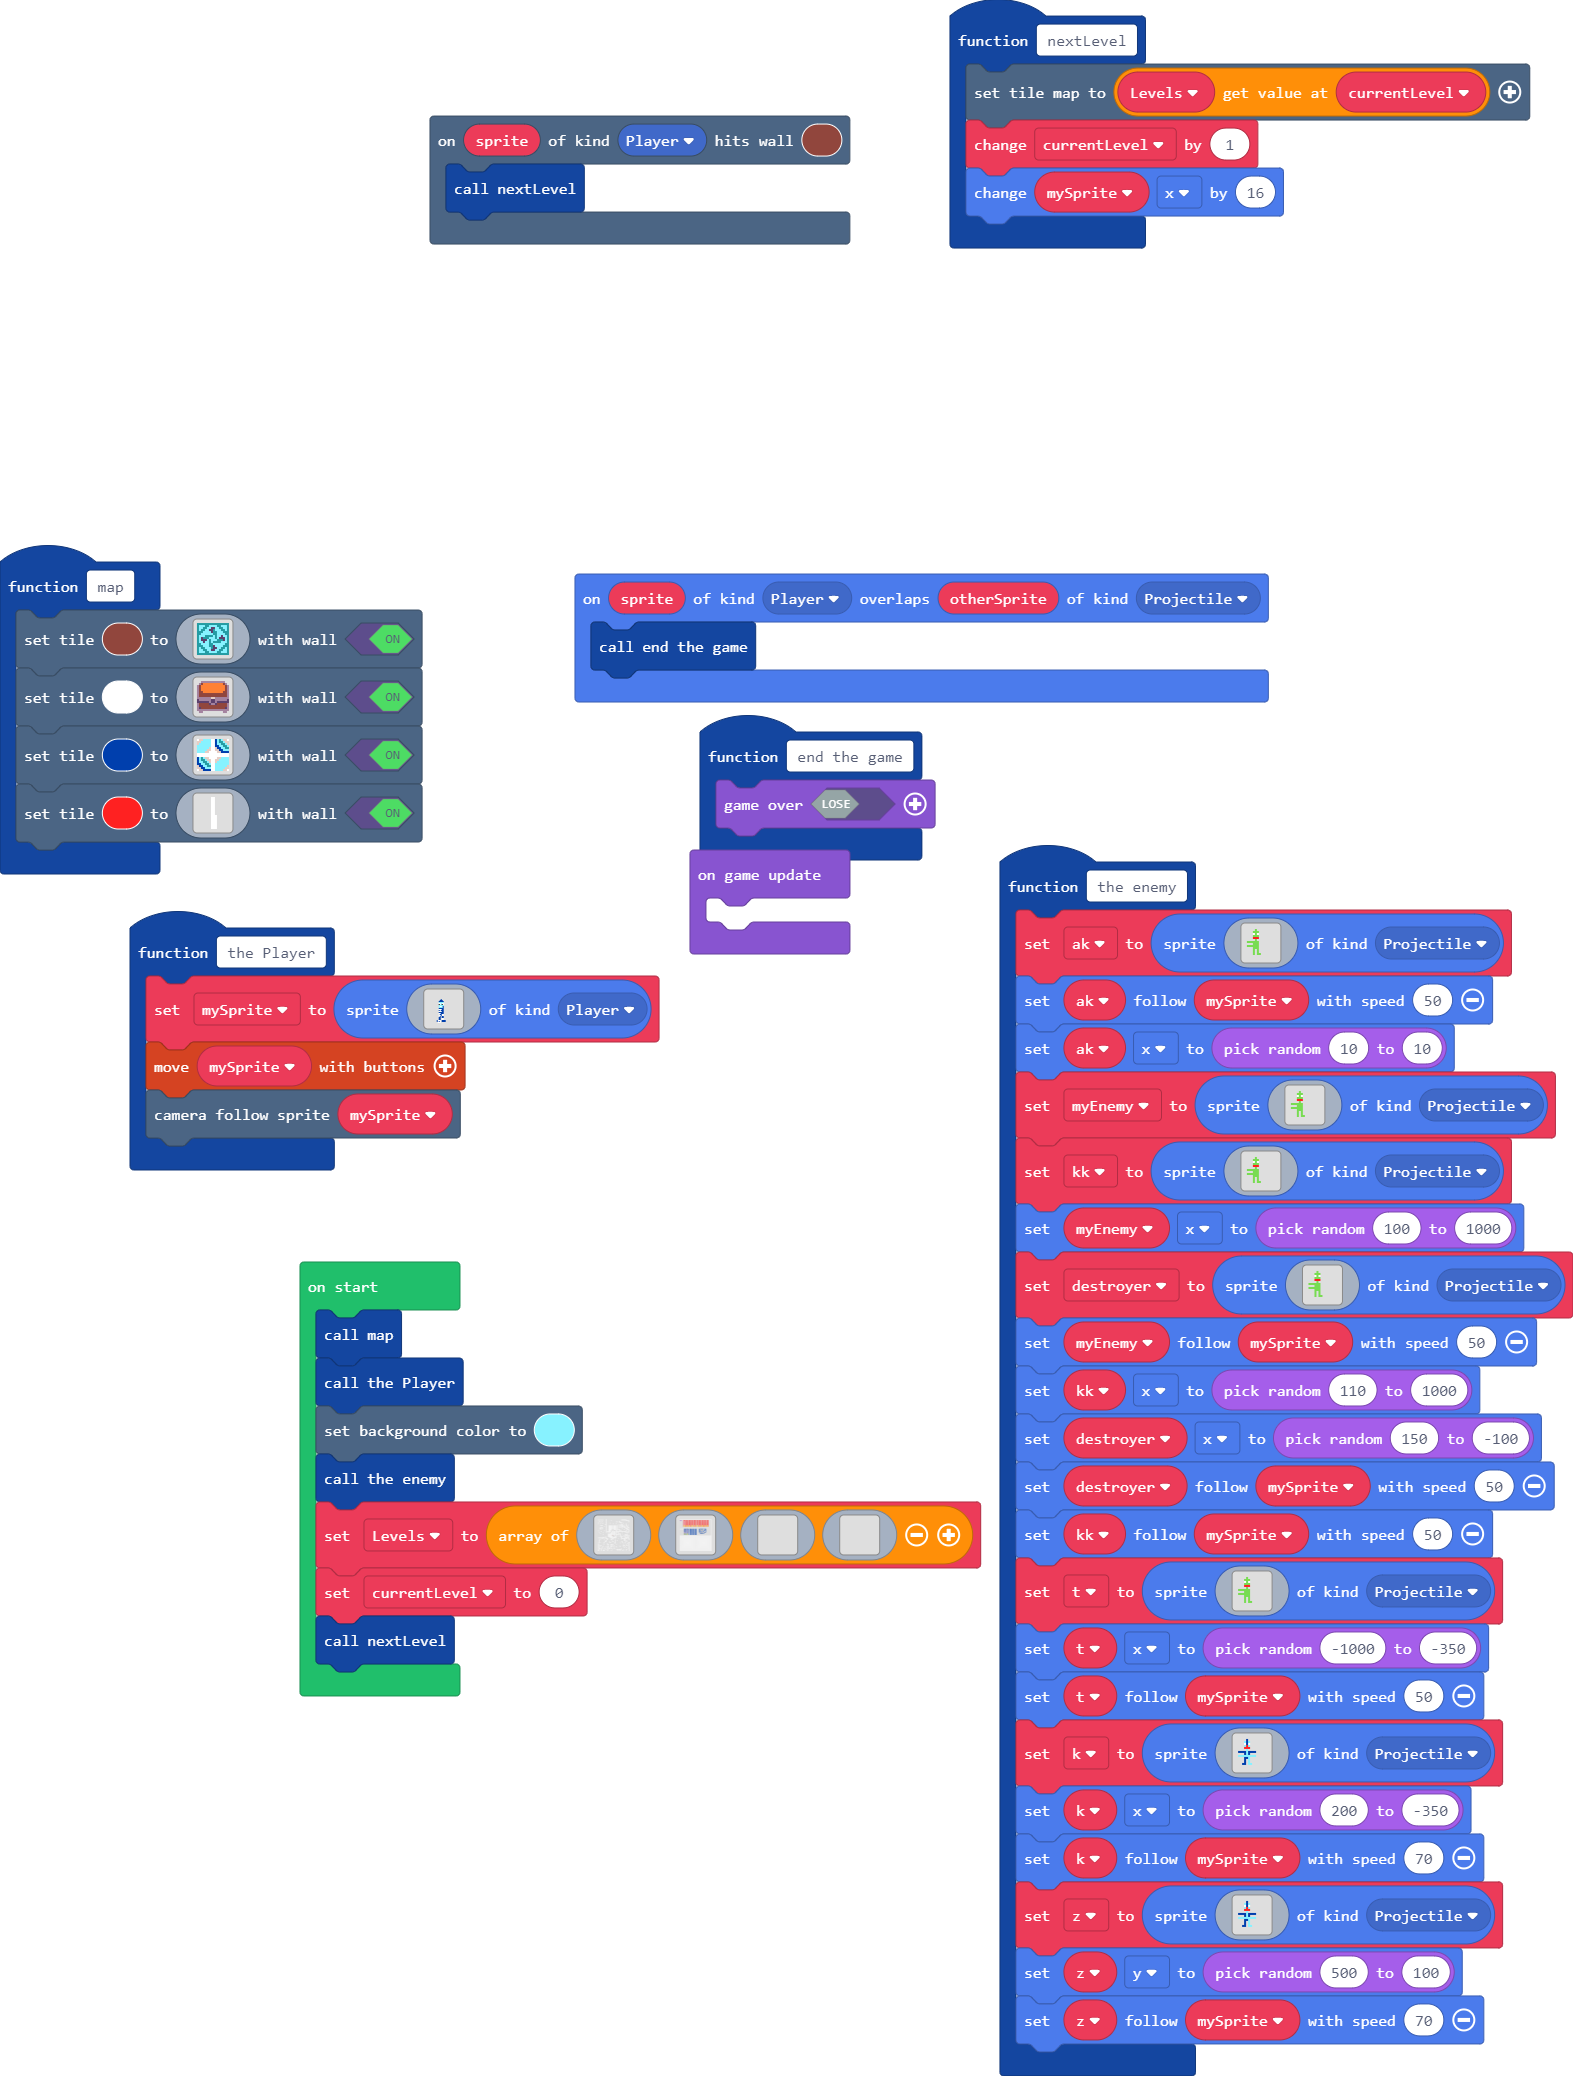
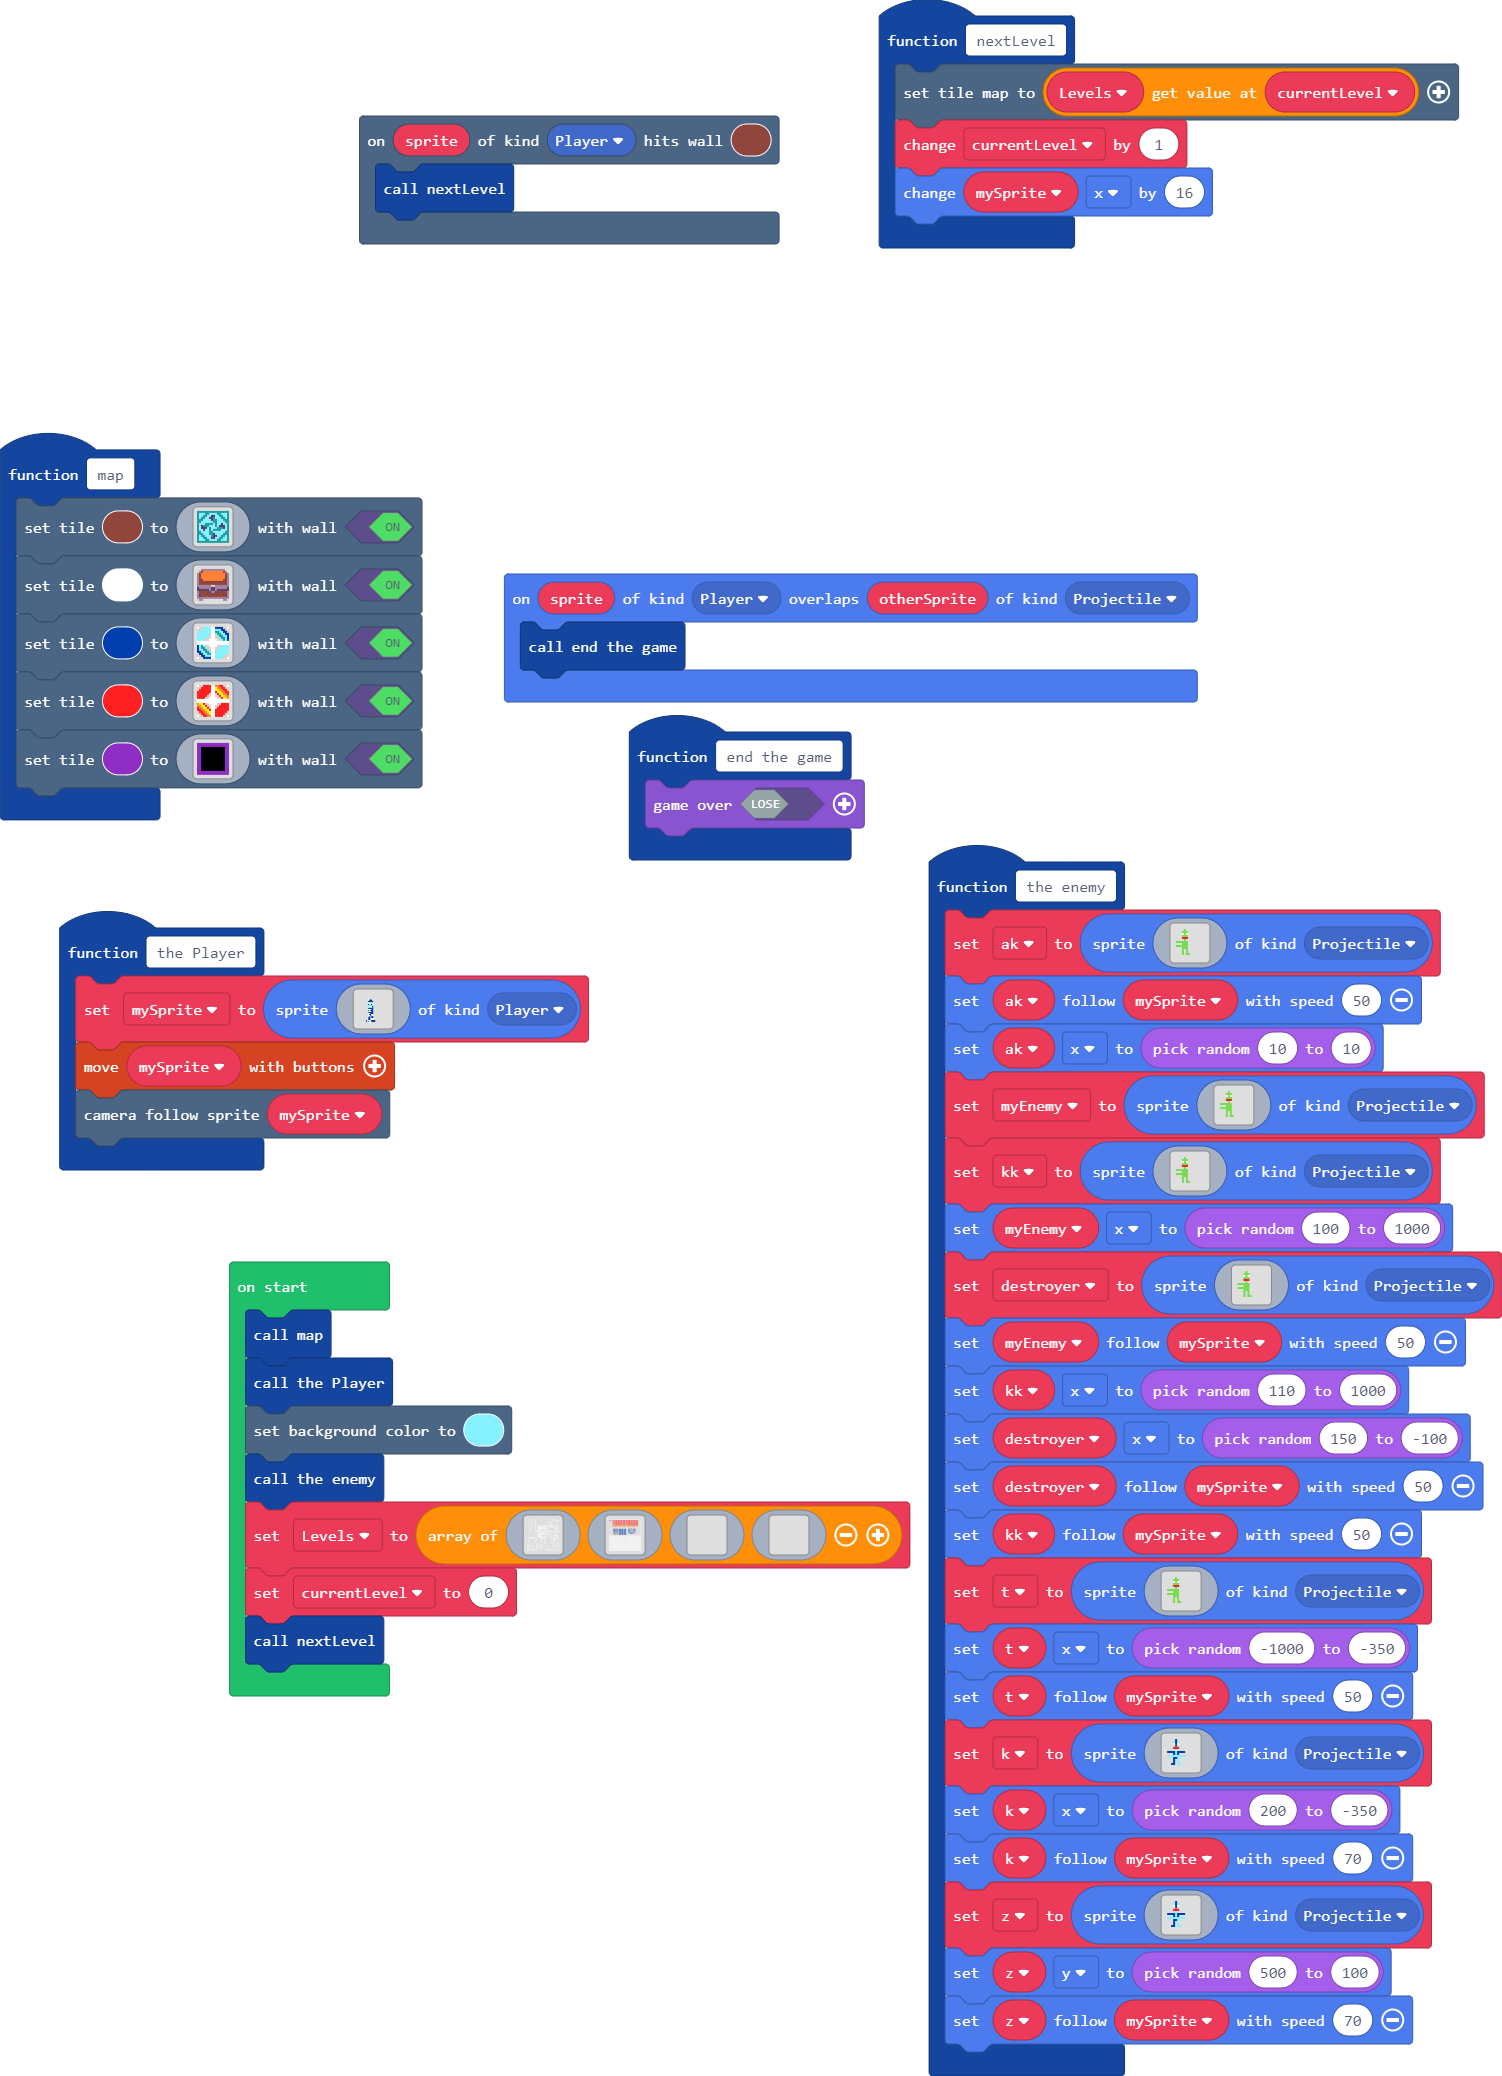
Update main.blocks, main.ts

diff --git a/main.ts b/main.ts
@@ -225,13 +225,13 @@ b b b b b b b b b b b b b b b b
 . b b . . . . . . . . . . b b . 
 `, true)
     scene.setTile(8, img`
-1 d d 9 9 9 9 1 1 8 9 6 9 d d 1 
-d d 9 9 9 9 9 1 1 8 9 6 6 9 d d 
-d 9 9 9 9 9 9 1 1 8 9 9 6 6 9 d 
-9 9 9 9 9 9 9 1 1 8 8 9 9 6 6 9 
-9 9 9 9 9 9 d 1 1 d 8 8 9 9 6 6 
-9 9 9 9 9 d d 1 1 d d 8 8 9 9 9 
-9 9 9 9 d d 1 1 1 1 d d 8 8 8 8 
+1 d d 9 9 9 9 1 1 8 8 8 8 d d 1 
+d d 9 9 9 9 9 1 1 9 9 9 8 8 d d 
+d 9 9 9 9 9 9 1 1 6 6 9 9 8 8 d 
+9 9 9 9 9 9 9 1 1 9 6 6 9 9 8 8 
+9 9 9 9 9 9 d 1 1 d 9 6 6 9 9 8 
+9 9 9 9 9 d d 1 1 d d 9 6 6 9 8 
+9 9 9 9 d d 1 1 1 1 d d 9 6 9 8 
 1 1 1 1 1 1 1 1 1 1 1 1 1 1 1 1 
 1 1 1 1 1 1 1 1 1 1 1 1 1 1 1 1 
 8 9 6 9 d d 1 1 1 1 d d 9 9 9 9 
@@ -243,22 +243,40 @@ d d 8 8 9 9 9 1 1 9 9 9 9 9 d d
 1 d d 8 8 8 8 1 1 9 9 9 9 d d 1 
 `, true)
     scene.setTile(2, img`
-. . . . . . . 1 1 . . . . . . . 
-. . . . . . . 1 1 . . . . . . . 
-. . . . . . . 1 1 . . . . . . . 
-. . . . . . . 1 1 . . . . . . . 
-. . . . . . . 1 1 . . . . . . . 
-. . . . . . . 1 1 . . . . . . . 
-. . . . . . . 1 1 . . . . . . . 
-. . . . . . . 1 1 . . . . . . . 
-. . . . . . . 1 1 . . . . . . . 
-. . . . . . . 1 1 1 . . . . . . 
-. . . . . . . 1 1 1 . . . . . . 
-. . . . . . . 1 1 1 . . . . . . 
-. . . . . . . 1 1 1 . . . . . . 
-. . . . . . . 1 1 1 . . . . . . 
-. . . . . . . 1 1 1 . . . . . . 
-. . . . . . . 1 1 1 . . . . . . 
+1 d d 2 2 2 2 1 1 4 4 2 2 d d 1 
+d d 2 2 2 2 2 1 1 5 4 4 2 2 d d 
+d 2 2 2 2 2 2 1 1 5 5 4 4 2 2 d 
+2 2 2 2 2 2 2 1 1 2 5 5 4 4 2 2 
+2 2 2 2 2 2 d 1 1 d 2 5 5 4 4 2 
+2 2 2 2 2 d d 1 1 d d 2 5 5 4 4 
+2 2 2 2 d d 1 1 1 1 d d 2 5 5 4 
+1 1 1 1 1 1 1 1 1 1 1 1 1 1 1 1 
+1 1 1 1 1 1 1 1 1 1 1 1 1 1 1 1 
+4 5 5 2 d d 1 1 1 1 d d 2 2 2 2 
+4 4 5 5 2 d d 1 1 d d 2 2 2 2 2 
+2 4 4 5 5 2 d 1 1 d 2 2 2 2 2 2 
+2 2 4 4 5 5 2 1 1 2 2 2 2 2 2 2 
+d 2 2 4 4 5 5 1 1 2 2 2 2 2 2 d 
+d d 2 2 4 4 5 1 1 2 2 2 2 2 d d 
+1 d d 2 2 4 4 1 1 2 2 2 2 d d 1 
+`, true)
+    scene.setTile(10, img`
+a a a a a a a a a a a a a a a a 
+a a a a a a a a a a a a a a a a 
+a a f f f f f f f f f f f f a a 
+a a f f f f f f f f f f f f a a 
+a a f f f f f f f f f f f f a a 
+a a f f f f f f f f f f f f a a 
+a a f f f f f f f f f f f f a a 
+a a f f f f f f f f f f f f a a 
+a a f f f f f f f f f f f f a a 
+a a f f f f f f f f f f f f a a 
+a a f f f f f f f f f f f f a a 
+a a f f f f f f f f f f f f a a 
+a a f f f f f f f f f f f f a a 
+a a f f f f f f f f f f f f a a 
+a a a a a a a a a a a a a a a a 
+a a a a a a a a a a a a a a a a 
 `, true)
 }
 function nextLevel () {
@@ -431,6 +449,3 @@ Levels = [img`
 `]
 currentLevel = 0
 nextLevel()
-game.onUpdate(function () {
-	
-})
